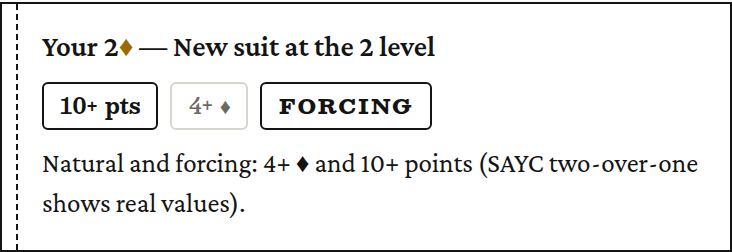
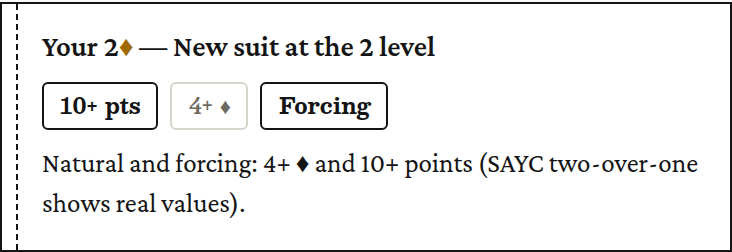
Match forcing chips to the other chips' typography
Sentence case ("Forcing", "Game forcing") at the standard chip size and
weight, keeping only the accent color to mark game-forcing; refresh the
docs screenshots.

Claude-Session: https://claude.ai/code/session_01LmTkZCLQctt6mjnH2m7avz

Changed region(s): [[0.3607, 0.3889, 0.571, 0.4722], [0.5109, 0.3056, 0.6011, 0.3611], [0.5109, 0.5, 0.6011, 0.5278]]

diff --git a/web/src/components/game/MeaningPanel.tsx b/web/src/components/game/MeaningPanel.tsx
@@ -2,14 +2,10 @@ import type { BidMeaning } from '../../api';
 import { Chip } from '../ds/Chip';
 import { CallText } from './CallText';
 
-/** Forcing qualifier chip: red for game-forcing, ink for forcing one round. */
+/** Forcing qualifier chip: same typography as the other chips, red for game-forcing. */
 export function ForcingChip({ forcing }: { forcing?: BidMeaning['forcing'] }) {
   if (!forcing) return null;
-  return forcing === 'game' ? (
-    <Chip color="var(--accent)">GAME FORCING</Chip>
-  ) : (
-    <Chip color="var(--ink)">FORCING</Chip>
-  );
+  return forcing === 'game' ? <Chip className="chip-gf">Game forcing</Chip> : <Chip>Forcing</Chip>;
 }
 
 /**

diff --git a/web/src/style.css b/web/src/style.css
@@ -476,6 +476,11 @@ a.ds-btn-secondary:hover {
   letter-spacing: 0.1em;
   font-size: 10.5px;
 }
+/* game-forcing qualifier: accent color, but same typography as the other chips */
+.chip.chip-gf {
+  border-color: var(--accent);
+  color: var(--accent);
+}
 
 /* ---- Input ---- */
 .ds-input {